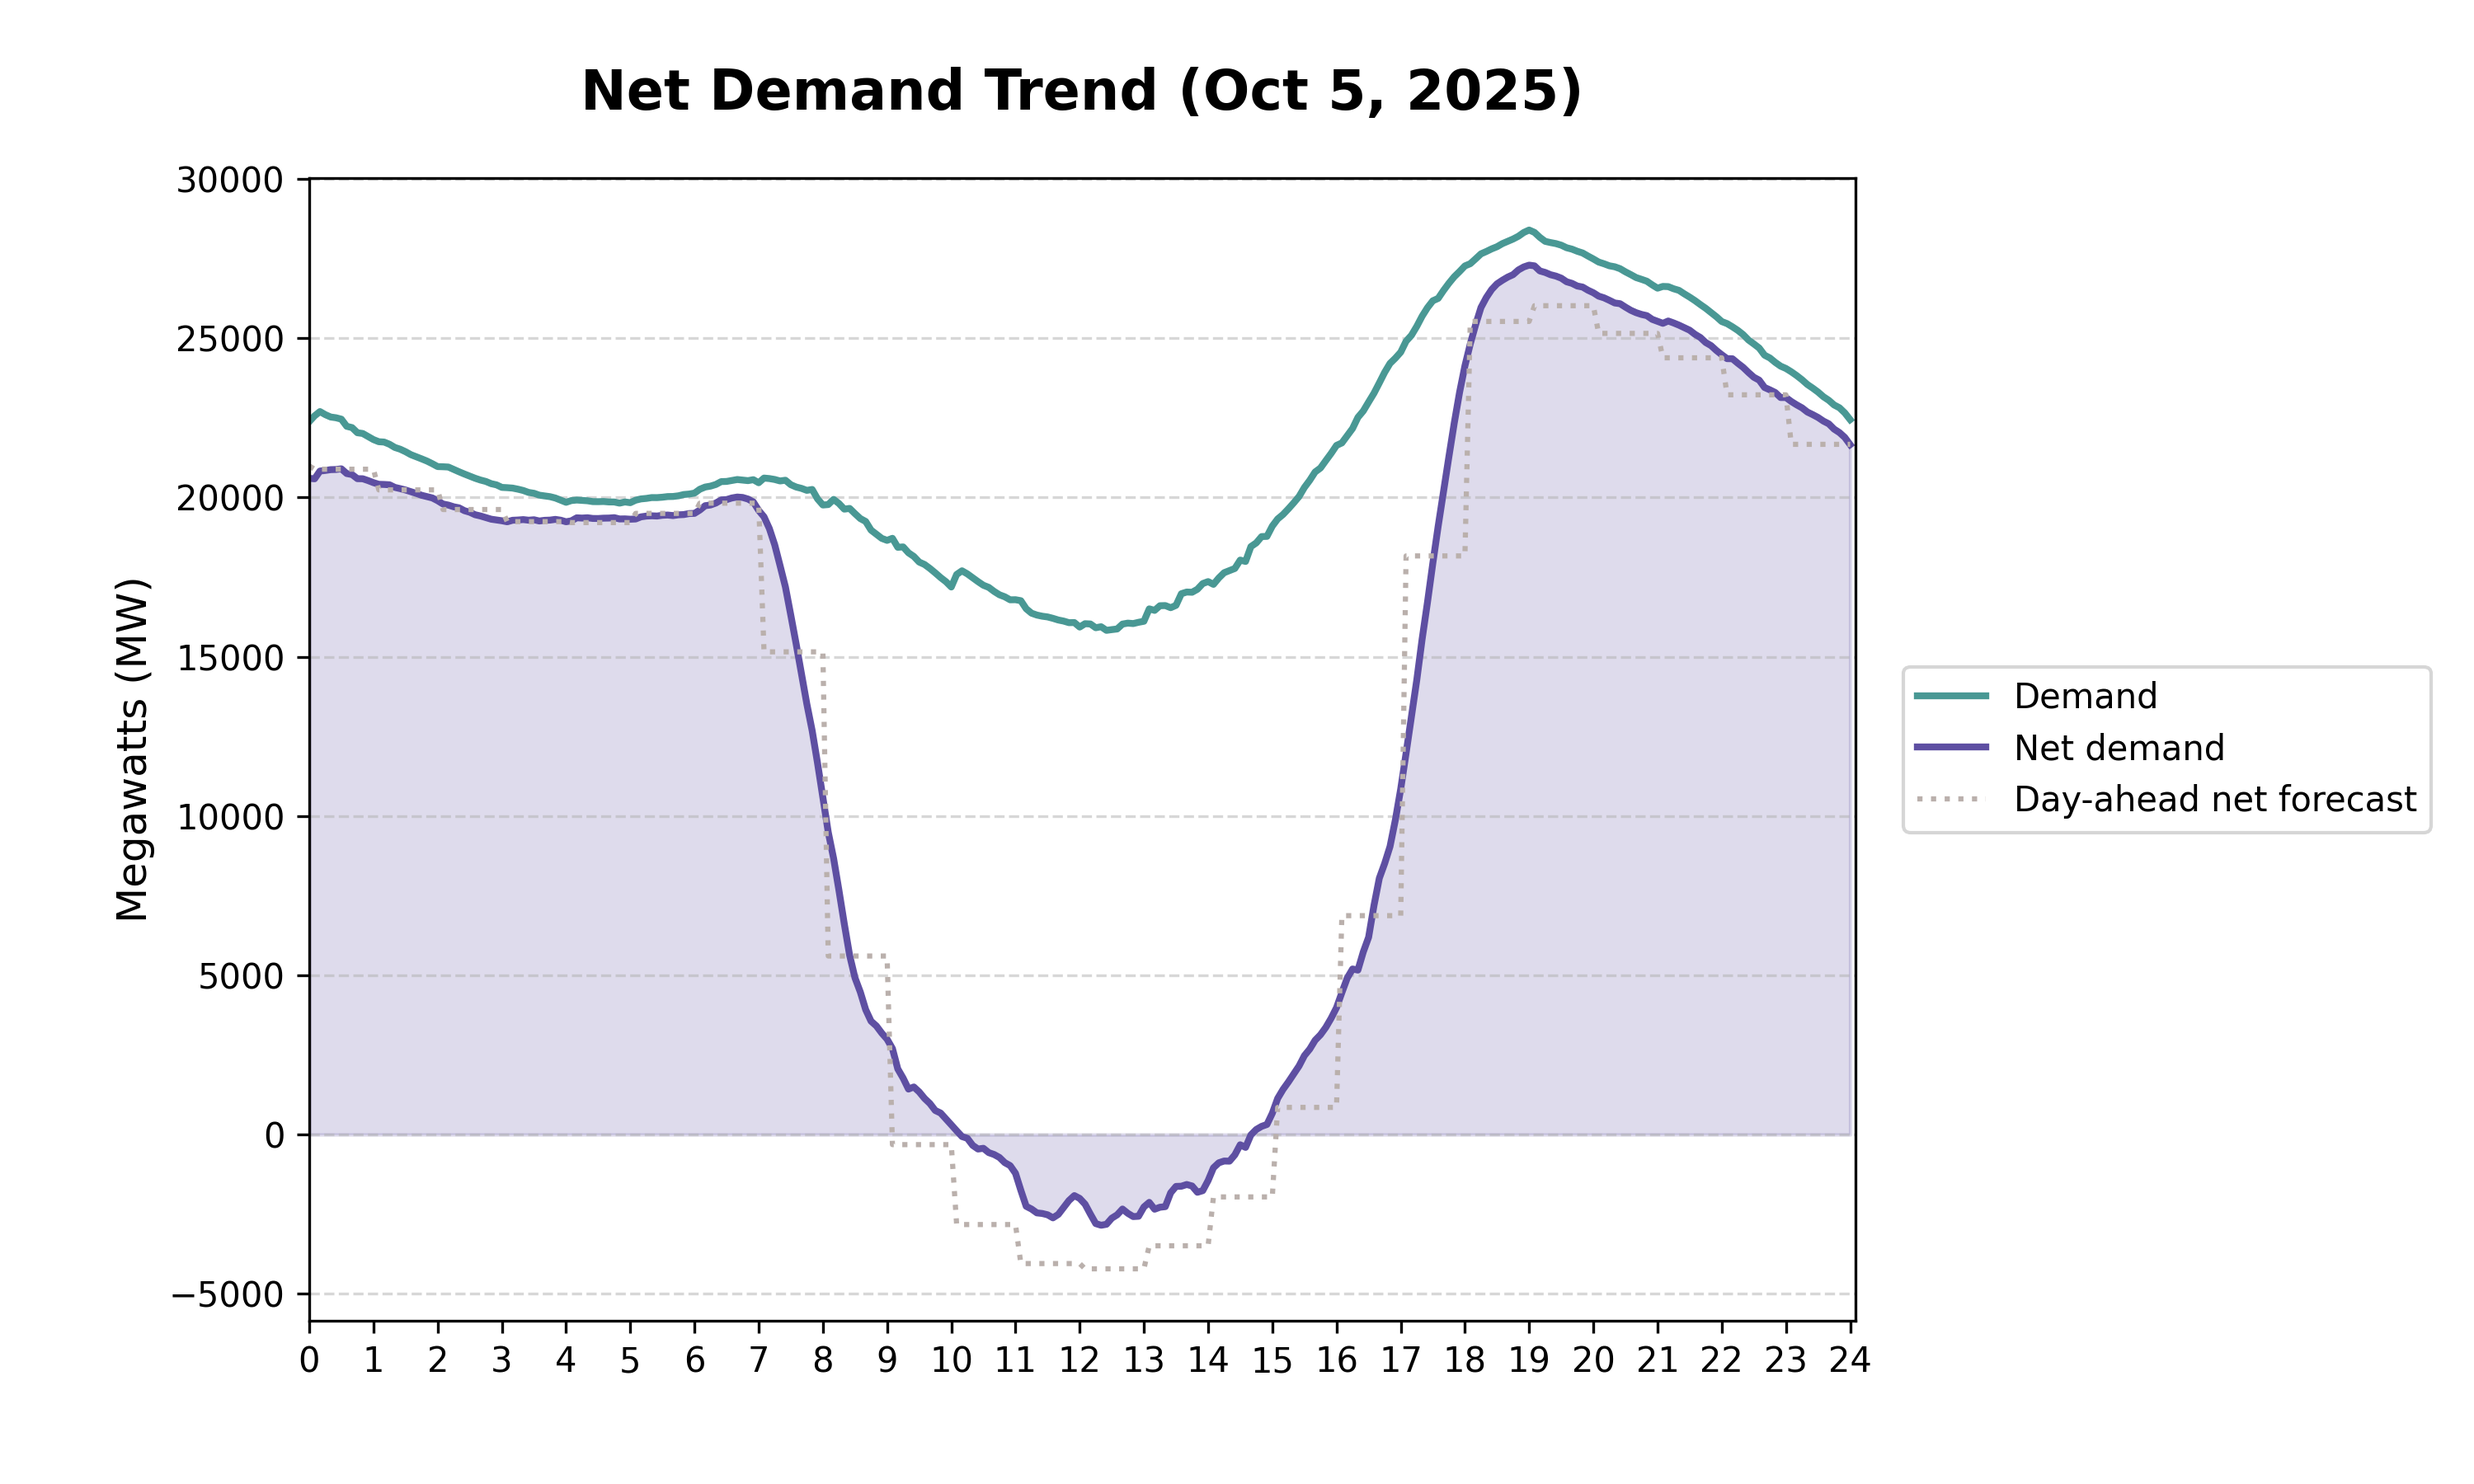
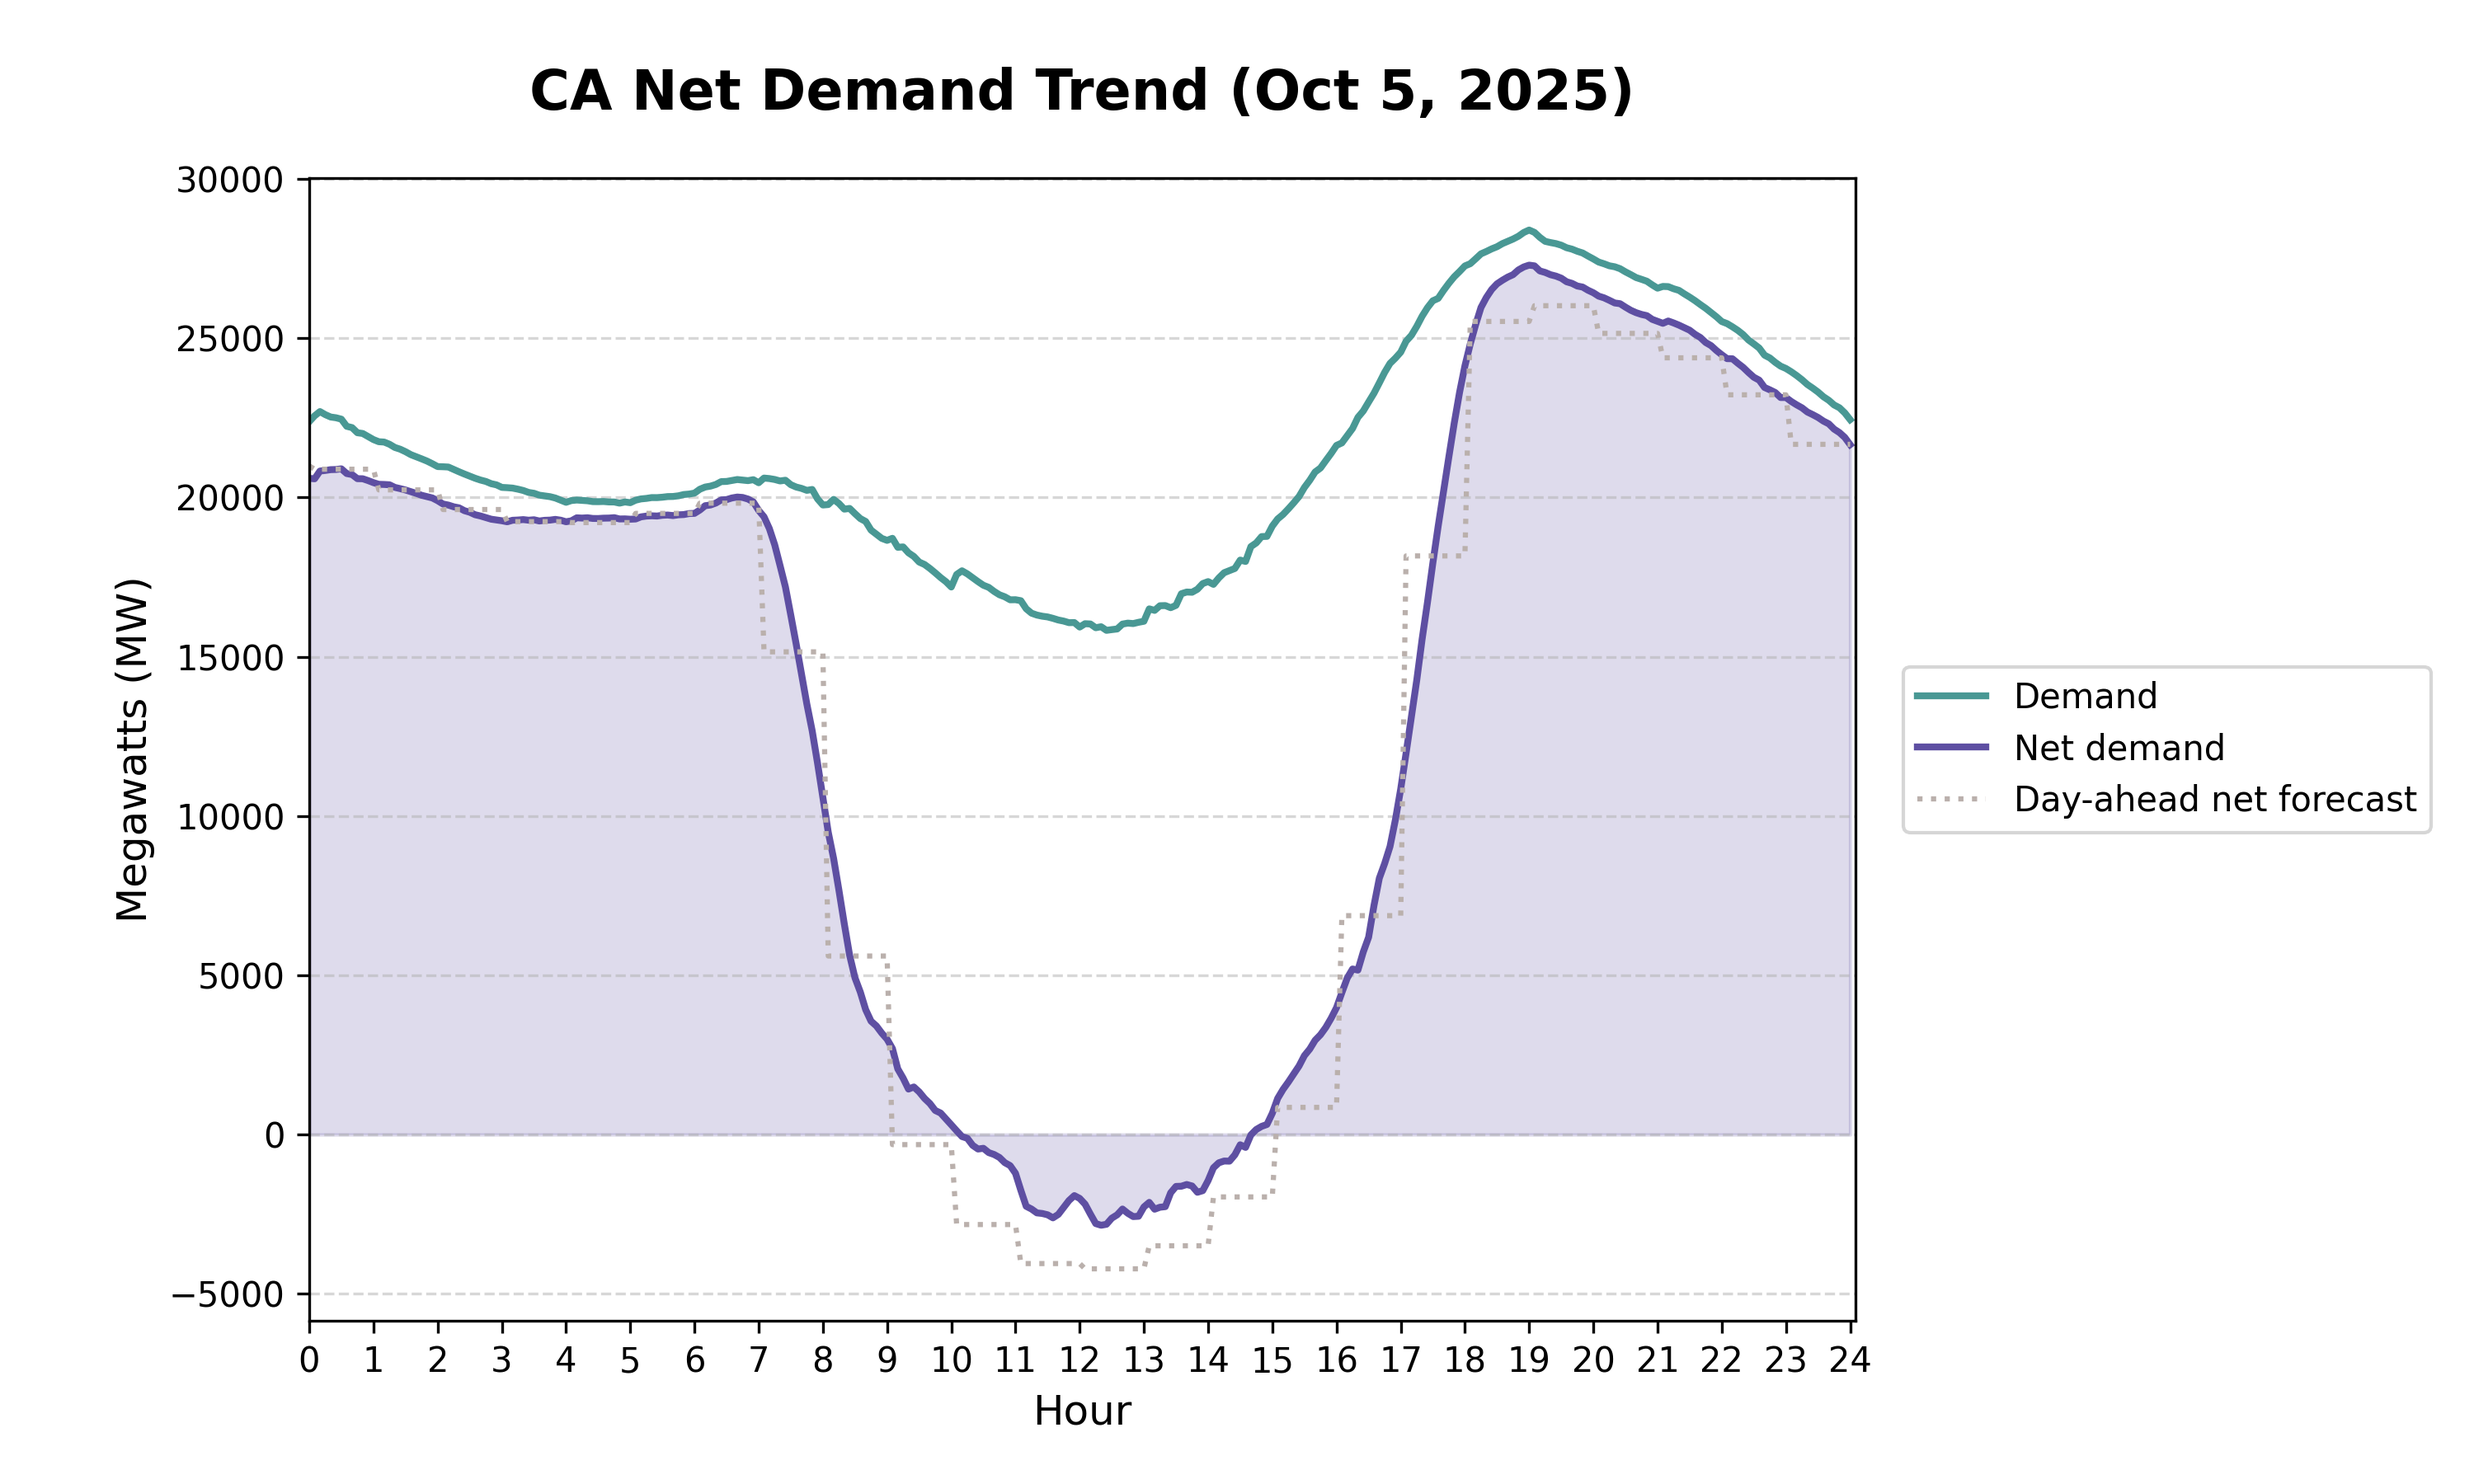
revisions to caiso graphs

Changed region(s): [[0.217, 0.0311, 0.651, 0.0933], [0.403, 0.9333, 0.465, 0.9644]]

diff --git a/CAISO_ramp_record.py b/CAISO_ramp_record.py
@@ -70,19 +70,15 @@ def load_and_transpose_data(file_path):
 def format_plot(ax, title, ylabel, data_len):
     ax.set_title(title, fontsize=16, fontweight='bold', pad=20)
     ax.set_ylabel(ylabel, fontsize=12)
+    ax.set_xlabel("Hour", fontsize=12)
     ax.grid(axis='y', linestyle='--', alpha=0.5)
     
-    # --- X-AXIS FIX: Ensure 24 is included ---
-    # range(0, data_len + 1) ensures we reach the end index (e.g. 288)
     tick_indices = list(range(0, data_len + 1, 12)) 
-    
-    # Create labels 0, 1, 2... 24
     tick_labels = [str(i) for i in range(len(tick_indices))]
     
     ax.set_xticks(tick_indices)
     ax.set_xticklabels(tick_labels, fontsize=10)
     ax.set_xlim(0, data_len) 
-    
     plt.yticks(fontsize=10)
 
 # --- 3. PLOTTING FUNCTIONS ---
@@ -94,7 +90,6 @@ def plot_supply_trend(df, title, filename):
     df_pos = df.clip(lower=0)
     df_neg = df.clip(upper=0)
     
-    # Enforce Manual Stacking Order
     pos_cols = [c for c in SUPPLY_ORDER if c in df_pos.columns and df_pos[c].sum() > 0]
     remaining_cols = [c for c in df_pos.columns if c not in pos_cols and df_pos[c].sum() > 0]
     pos_cols = pos_cols + remaining_cols
@@ -104,7 +99,6 @@ def plot_supply_trend(df, title, filename):
     df_neg = df_neg[neg_cols]
     
     fig, ax = plt.subplots(figsize=FIG_SIZE)
-    
     colors_pos = [COLOR_MAP.get(col, '#333333') for col in pos_cols]
     ax.stackplot(range(len(df)), df_pos.T, labels=pos_cols, colors=colors_pos, alpha=0.9)
     
@@ -113,21 +107,14 @@ def plot_supply_trend(df, title, filename):
         ax.stackplot(range(len(df)), df_neg.T, labels=neg_cols, colors=colors_neg, alpha=0.9)
     
     format_plot(ax, title, "Generation (MW)", len(df))
-    
     plt.subplots_adjust(right=0.75)
     
-    # --- LEGEND FIX: Remove Duplicates ---
     handles, labels = ax.get_legend_handles_labels()
-    
-    # Dictionary preserves insertion order (Python 3.7+) and keys are unique
     by_label = dict(zip(labels, handles))
-    
-    # Reverse to match stack order (Top visual = Top legend)
     unique_labels = list(by_label.keys())[::-1]
     unique_handles = list(by_label.values())[::-1]
     
     ax.legend(unique_handles, unique_labels, loc='center left', bbox_to_anchor=(1.02, 0.5), title="Resource")
-    
     plt.savefig(filename, dpi=DPI)
     plt.close()
     print(f"✅ Generated: {filename}")
@@ -138,14 +125,12 @@ def plot_renewables(df, title, filename):
     
     present_cols = [c for c in RENEWABLES_ORDER if c in df.columns]
     df = df[present_cols]
-    
     colors = [COLOR_MAP.get(col, '#333333') for col in present_cols]
     
     fig, ax = plt.subplots(figsize=FIG_SIZE)
     ax.stackplot(range(len(df)), df.T, labels=present_cols, colors=colors, alpha=0.9)
     
     format_plot(ax, title, "Generation (MW)", len(df))
-    
     plt.subplots_adjust(right=0.75)
     handles, labels = ax.get_legend_handles_labels()
     ax.legend(handles[::-1], labels[::-1], loc='center left', bbox_to_anchor=(1.02, 0.5), title="Resource")
@@ -154,7 +139,7 @@ def plot_renewables(df, title, filename):
     plt.close()
     print(f"✅ Generated: {filename}")
 
-def plot_net_demand(df, filename):
+def plot_net_demand(df, title, filename):
     if df is None: return
     df = df.apply(pd.to_numeric, errors='coerce').fillna(0)
 
@@ -163,23 +148,21 @@ def plot_net_demand(df, filename):
     
     if 'Demand' in df.columns:
         ax.plot(x_idx, df['Demand'], color=COLOR_MAP['Demand'], linewidth=2, label='Demand')
-
     if 'Net demand' in df.columns:
         ax.plot(x_idx, df['Net demand'], color=COLOR_MAP['Net demand'], linewidth=2, label='Net demand')
         ax.fill_between(x_idx, df['Net demand'], color=COLOR_MAP['Net demand'], alpha=0.2)
-
     if 'Day-ahead net forecast' in df.columns:
         ax.plot(x_idx, df['Day-ahead net forecast'], color=COLOR_MAP['Day-ahead net forecast'], 
                 linestyle=':', linewidth=1.5, label='Day-ahead net forecast')
 
-    format_plot(ax, "Net Demand Trend (Oct 5, 2025)", "Megawatts (MW)", len(df))
+    format_plot(ax, title, "Megawatts (MW)", len(df))
     plt.subplots_adjust(right=0.75)
     ax.legend(loc='center left', bbox_to_anchor=(1.02, 0.5))
     plt.savefig(filename, dpi=DPI)
     plt.close()
     print(f"✅ Generated: {filename}")
 
-def plot_batteries(df, filename):
+def plot_batteries(df, title, filename):
     if df is None: return
     df = df.apply(pd.to_numeric, errors='coerce').fillna(0)
     col_name = df.columns[0]
@@ -194,13 +177,13 @@ def plot_batteries(df, filename):
     ax.text(0.02, 0.9, 'Discharging (+)', transform=ax.transAxes, color='#555', fontweight='bold')
     ax.text(0.02, 0.1, 'Charging (-)', transform=ax.transAxes, color='#555', fontweight='bold')
 
-    format_plot(ax, "Batteries Trend (Oct 5, 2025)", "Megawatts (MW)", len(df))
+    format_plot(ax, title, "Megawatts (MW)", len(df))
     plt.subplots_adjust(right=0.75)
     plt.savefig(filename, dpi=DPI)
     plt.close()
     print(f"✅ Generated: {filename}")
 
-def plot_imports(df, filename):
+def plot_imports(df, title, filename):
     if df is None: return
     df = df.apply(pd.to_numeric, errors='coerce').fillna(0)
     col_name = df.columns[0]
@@ -208,7 +191,7 @@ def plot_imports(df, filename):
     fig, ax = plt.subplots(figsize=FIG_SIZE)
     ax.plot(range(len(df)), df[col_name], color=COLOR_MAP['Imports'], linewidth=2.5, label='Imports')
     
-    format_plot(ax, "Imports Trend (Oct 5, 2025)", "Megawatts (MW)", len(df))
+    format_plot(ax, title, "Megawatts (MW)", len(df))
     plt.subplots_adjust(right=0.75)
     plt.savefig(filename, dpi=DPI)
     plt.close()
@@ -218,17 +201,21 @@ def plot_imports(df, filename):
 def main():
     print("--- Starting Graph Generation ---")
     
+    # Titles updated with "CA" prefix
     plot_supply_trend(load_and_transpose_data(FILES['supply']), 
-                      "Supply Trend (Oct 5, 2025)", "1_Supply_Trend.png")
+                      "CA Supply Trend (Oct 5, 2025)", "1_Supply_Trend.png")
 
     plot_renewables(load_and_transpose_data(FILES['renewables']), 
-                      "Renewables Trend (Oct 5, 2025)", "2_Renewables_Trend.png")
+                      "CA Renewables Trend (Oct 5, 2025)", "2_Renewables_Trend.png")
 
-    plot_net_demand(load_and_transpose_data(FILES['net_demand']), "3_Net_Demand.png")
+    plot_net_demand(load_and_transpose_data(FILES['net_demand']), 
+                      "CA Net Demand Trend (Oct 5, 2025)", "3_Net_Demand.png")
 
-    plot_batteries(load_and_transpose_data(FILES['batteries']), "4_Batteries.png")
+    plot_batteries(load_and_transpose_data(FILES['batteries']), 
+                      "CA Batteries Trend (Oct 5, 2025)", "4_Batteries.png")
 
-    plot_imports(load_and_transpose_data(FILES['imports']), "5_Imports.png")
+    plot_imports(load_and_transpose_data(FILES['imports']), 
+                      "CA Imports Trend (Oct 5, 2025)", "5_Imports.png")
     
     print("--- All Graphs Completed ---")
 
